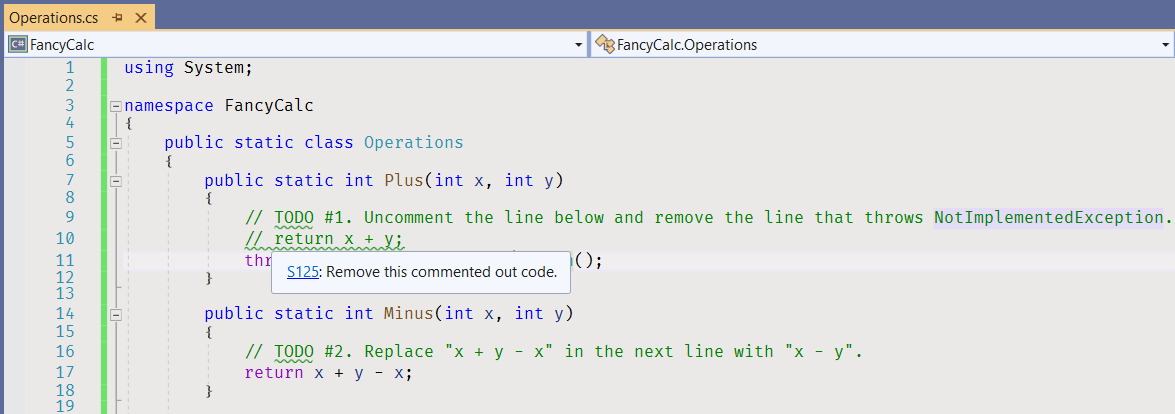
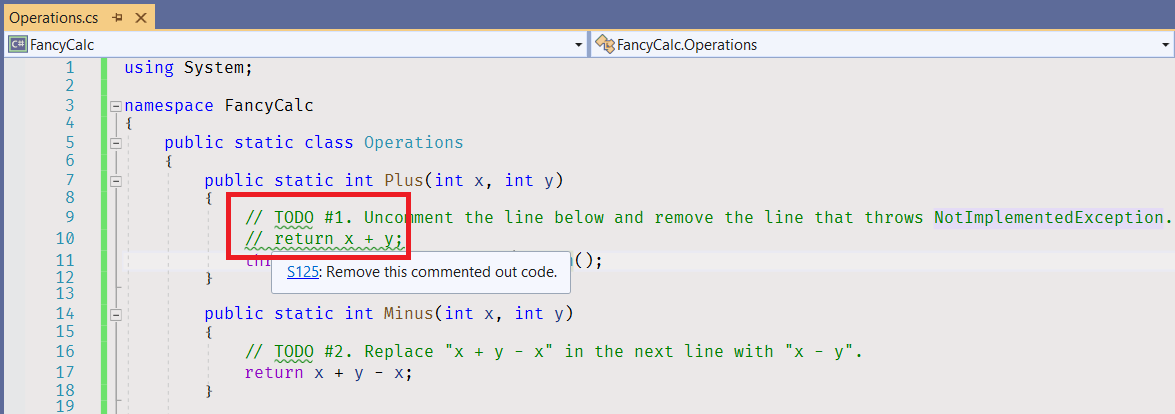
Add images.

Changed region(s): [[0.1838, 0.4638, 0.3677, 0.6377]]

diff --git a/README-RU.md b/README-RU.md
@@ -10,7 +10,7 @@
 
 ## SonarLint
 
-We recommed you to install [SonarLint extension for Visual Studio](https://www.sonarlint.org/visualstudio). This extension is very useful during the development because it detects code quality and code security issues on the fly in the Visual Studio code editor.
+We recommed you to install [SonarLint extension for Visual Studio](https://www.sonarlint.org/visualstudio). This extension is very useful during the development because it detects code quality and code security issues on the fly and highlights this issues in the Visual Studio code editor.
 
 1. Open "Extensions" window by clicking on the _Extensions\Manage Extensions_ menu item.
 
@@ -281,6 +281,15 @@ If you leave "TODO" in your code, the Sonar will raise an issue when you will in
 Если текст ошибки или предупреждения компилятора Вам не ясен, [просмотрите подробные сведения об ошибке](https://docs.microsoft.com/ru-ru/visualstudio/ide/find-and-fix-code-errors#review-errors-in-detail) или введите в поиске google код ошибки или предупреждения, чтобы получить больше информации о проблеме.
 
 Также, вы можете использовать [Базу знаний правил Sonar](https://rules.sonarsource.com/csharp) для поиска более детальной информации касательно обнаруженных предупреждений Sonar.
+
+
+## Sonar Issues
+
+If you left a comment line with "TODO" word in your code or any commented code lines, you will get Sonar issues during the task check.
+
+![AutoCode Sonar Issues](images/autocode-sonar-issues.png)
+
+To get a higher score fix these issues and start the task check again.
 
 
 ## Сохраните вашу работу

diff --git a/README.md b/README.md
@@ -10,7 +10,7 @@ This is a beginner level task for practicing AutoCode tasks management. Translat
 
 ## SonarLint
 
-We recommed you to install [SonarLint extension for Visual Studio](https://www.sonarlint.org/visualstudio). This extension is very useful during the development because it detects code quality and code security issues on the fly in the Visual Studio code editor.
+We recommed you to install [SonarLint extension for Visual Studio](https://www.sonarlint.org/visualstudio). This extension is very useful during the development because it detects code quality and code security issues on the fly and highlights this issues in the Visual Studio code editor.
 
 1. Open "Extensions" window by clicking on the _Extensions\Manage Extensions_ menu item.
 
@@ -295,6 +295,15 @@ Also, you can use [Sonar rule knowledge database](https://rules.sonarsource.com/
     * Click on "Compare with Unmodified" menu item to open a comparison window.
 * [Stage your changes](https://docs.microsoft.com/en-us/azure/devops/repos/git/commits#stage-your-changes) and [create a commit](https://docs.microsoft.com/en-us/azure/devops/repos/git/commits#create-a-commit).
 * Share your changes by [pushing them to a remote repository](https://docs.microsoft.com/en-us/azure/devops/repos/git/pushing).
+
+
+## Sonar Issues
+
+If you left a comment line with "TODO" word in your code or any commented code lines, you will get Sonar issues during the task check.
+
+![AutoCode Sonar Issues](images/autocode-sonar-issues.png)
+
+To get a higher score fix these issues and start the task check again.
 
 
 ## See also
